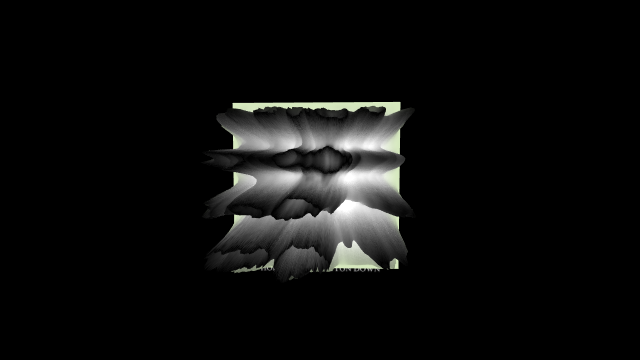
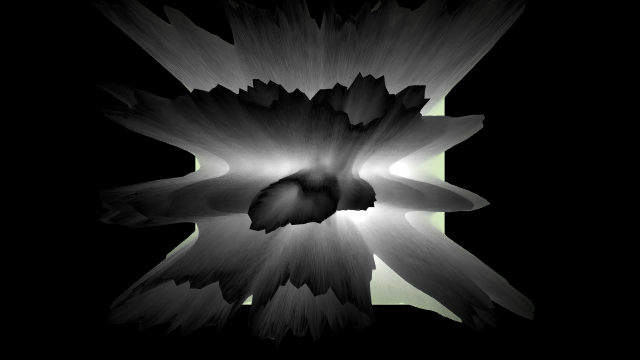
dev tweaks

diff --git a/src/ops/base/Ops.Html.BackgroundImage_v2/Ops.Html.BackgroundImage_v2.js b/src/ops/base/Ops.Html.BackgroundImage_v2/Ops.Html.BackgroundImage_v2.js
@@ -18,14 +18,34 @@ inRepeat.onChange=
 active.onChange=
 filename.onChange=update;
 
-
 var ele=null;
+
+function remove()
+{
+    if(ele)
+    {
+        ele.style['background-image']='none';
+        ele.style['background-size']='initial';
+        ele.style['background-position']='initial';
+        ele.style['background-repeat']='initial';
+
+    }
+}
 
 function update()
 {
+
+    if(!inEle.get())
+    {
+        remove();
+        return;
+    }
+
     op.setUiAttrib({"extendTitle":CABLES.basename(filename.get())});
 
     ele=inEle.get();
+
+
     if(ele && ele.style && filename.get())
     {
         if(!active.get())
@@ -40,11 +60,11 @@ function update()
             ele.style['background-repeat']=inRepeat.get();
         }
     }
-    else
-    {
-        // really needed ?
-        setTimeout(update,100);
-    }
+    // else
+    // {
+    //     // really needed ?
+    //     setTimeout(update,100);
+    // }
 
     outEle.set(inEle.get());
 }

diff --git a/src/ops/base/Ops.Html.TransformElement/Ops.Html.TransformElement.js b/src/ops/base/Ops.Html.TransformElement/Ops.Html.TransformElement.js
@@ -82,14 +82,14 @@ function getScreenCoord()
 
     if(inOrtho.get())
     {
-        x=( ( vp[2]  * 0.5 + trans[0] * vp[2] * 0.5 / 1 ));
-        y=( ( vp[3]  * 0.5 - trans[1] * vp[3] * 0.5 / 1 ));
+        x=( ( cgl.canvasWidth  * 0.5 + trans[0] * cgl.canvasWidth * 0.5 / 1 ));
+        y=( ( cgl.canvasHeight  * 0.5 - trans[1] * cgl.canvasHeight * 0.5 / 1 ));
 
     }
     else
     {
-        x=( vp[2]-( vp[2]  * 0.5 - trans[0] * vp[2] * 0.5 / trans[2] ));
-        y=( vp[3]-( vp[3]  * 0.5 + trans[1] * vp[3] * 0.5 / trans[2] ));
+        x=( cgl.canvasWidth-( cgl.canvasWidth  * 0.5 - trans[0] * cgl.canvasWidth * 0.5 / trans[2] ));
+        y=( cgl.canvasHeight-( cgl.canvasHeight  * 0.5 + trans[1] * cgl.canvasHeight * 0.5 / trans[2] ));
     }
 
     // console.log(x,y );

diff --git a/src/ops/base/Ops.Gl.DownloadTexture/Ops.Gl.DownloadTexture.js b/src/ops/base/Ops.Gl.DownloadTexture/Ops.Gl.DownloadTexture.js
@@ -66,7 +66,7 @@ start.onTriggered=function()
                 var reader = new FileReader();
                 // var out = new Blob([byte], {type: "application/pdf"});
                 reader.onload = function(e){
-                  window.location.href = reader.result;
+                    window.location.href = reader.result;
                 //   window.open(reader.result);
                 };
                 reader.readAsDataURL(blob);
@@ -78,9 +78,7 @@ start.onTriggered=function()
                 // anchor.target='_blank';
                 anchor.href=URL.createObjectURL(blob);
                 document.body.appendChild(anchor);
-
                 anchor.click();
-
             }
             outFinished.set(true);
         });

diff --git a/src/ops/base/Ops.Time.DelayedTrigger/Ops.Time.DelayedTrigger.js b/src/ops/base/Ops.Time.DelayedTrigger/Ops.Time.DelayedTrigger.js
@@ -1,16 +1,20 @@
 const
     exe=op.inTrigger("exe"),
     delay=op.inValueFloat("delay",1),
-    next=op.outTrigger("next");
+    next=op.outTrigger("next"),
+    outDelaying=op.outBool("Delaying");
 
 var lastTimeout=null;
 
 exe.onTriggered=function()
 {
+    outDelaying.set(true);
     if(lastTimeout)clearTimeout(lastTimeout);
+
     lastTimeout=setTimeout(
         function()
         {
+            outDelaying.set(false);
             lastTimeout=null;
             next.trigger();
         },

diff --git a/src/ops/base/Ops.Html.YoutubePlayer/Ops.Html.YoutubePlayer.js b/src/ops/base/Ops.Html.YoutubePlayer/Ops.Html.YoutubePlayer.js
@@ -44,7 +44,6 @@ inStyle.set(defaultStyle);
 
 function update()
 {
-    console.log("loaded!",active.get());
     if(!active.get())
     {
         removeEle();
@@ -99,7 +98,6 @@ function updateURL()
     if(urlParams.length>0) urlParamsStr='?'+urlParams.join('&');
 
     const urlStr='https://www.youtube.com/embed/'+src.get()+urlParamsStr;
-    console.log(urlStr);
     if(element) element.setAttribute('src',urlStr);
 
     outDirectLink.set("https://www.youtube.com/watch?v="+src.get());

diff --git a/src/ops/base/Ops.Json.GateObject/Ops.Json.GateObject.js b/src/ops/base/Ops.Json.GateObject/Ops.Json.GateObject.js
@@ -1,6 +1,7 @@
 const
     valueInPort = op.inObject('Object In'),
     passThroughPort = op.inValueBool('Pass Through',false),
+    onlyValid = op.inValueBool('Only Valid Objects',false),
     valueOutPort = op.outObject('Object Out');
 
 valueInPort.onChange =
@@ -8,6 +9,7 @@ valueInPort.onChange =
 
 function update()
 {
+    if(!valueInPort.get() && onlyValid.get()) return;
     if(passThroughPort.get()) valueOutPort.set(valueInPort.get());
     // else valueOutPort.set(null);
 }

diff --git a/src/ops/base/Ops.Html.ModalOverlay/Ops.Html.ModalOverlay.js b/src/ops/base/Ops.Html.ModalOverlay/Ops.Html.ModalOverlay.js
@@ -5,6 +5,7 @@ const
     closeButton=op.inBool("Show Closebutton",true),
     inOpacity=op.inFloatSlider("Opacity",0.5),
     outVisible=op.outBool("Visible"),
+    outClosed=op.outTrigger("Closed"),
     outElement=op.outObject("Element");
 
 const eleContainer = document.createElement('div');
@@ -47,6 +48,7 @@ function hide()
 {
     outVisible.set(false);
     eleContainer.style.display="none";
+    outClosed.trigger();
 }
 
 function updateBgColor()

diff --git a/src/ops/base/Ops.Html.DivElement_v2/Ops.Html.DivElement_v2.js b/src/ops/base/Ops.Html.DivElement_v2/Ops.Html.DivElement_v2.js
@@ -66,14 +66,14 @@ function updateText()
 
     if(inBreaks.get()) str = str.replace(/(?:\r\n|\r|\n)/g, '<br>');
 
-    div.innerHTML=str;
-    outElement.set(null);
+    if(div.innerHTML!=str) div.innerHTML=str;
+    // outElement.set(null);
     outElement.set(div);
 }
 
 function removeElement()
 {
-    div.parentNode.removeChild(div);
+    if(div && div.parentNode) div.parentNode.removeChild(div);
 }
 
 function updateStyle()

diff --git a/src/ops/base/Ops.Gl.Texture_v2/Ops.Gl.Texture_v2.js b/src/ops/base/Ops.Gl.Texture_v2/Ops.Gl.Texture_v2.js
@@ -73,6 +73,7 @@ function realReload(nocache)
                 if(err)
                 {
                     setTempTexture();
+                    console.log(err);
                     op.setUiError('urlerror','could not load texture:<br/>"'+filename.get()+'"',2);
                     cgl.patch.loading.finished(loadingId);
                     return;

diff --git a/src/ops/base/Ops.Value.SwitchFile/Ops.Value.SwitchFile.js b/src/ops/base/Ops.Value.SwitchFile/Ops.Value.SwitchFile.js
@@ -13,8 +13,9 @@ for(var i=0;i<10;i++)
 
 function update()
 {
-    if(idx.get()>=0 && valuePorts[idx.get()])
+    const index=idx.get();
+    if(index>=0 && valuePorts[index])
     {
-        result.set( valuePorts[idx.get()].get() );
+        result.set( valuePorts[index].get() );
     }
 }

diff --git a/src/ops/base/Ops.Exp.Gl.TextureEffects.ImageCompose/Ops.Exp.Gl.TextureEffects.ImageCompose.js b/src/ops/base/Ops.Exp.Gl.TextureEffects.ImageCompose/Ops.Exp.Gl.TextureEffects.ImageCompose.js
@@ -157,7 +157,6 @@ var doRender=function()
         cgl.currentTextureEffect.bind();
         cgl.setTexture(0,cgl.currentTextureEffect.getCurrentSourceTexture().tex );
 
-
         cgl.gl.clearColor(0,0,0,0);
         cgl.gl.clear(cgl.gl.COLOR_BUFFER_BIT );
 

diff --git a/src/ops/base/Ops.String.GateString/Ops.String.GateString.js b/src/ops/base/Ops.String.GateString/Ops.String.GateString.js
@@ -10,6 +10,6 @@ function update()
 {
     if(passThroughPort.get())
         valueOutPort.set(valueInPort.get());
-        else
-        valueOutPort.set('');
+        // else
+        // valueOutPort.set('');
 }
